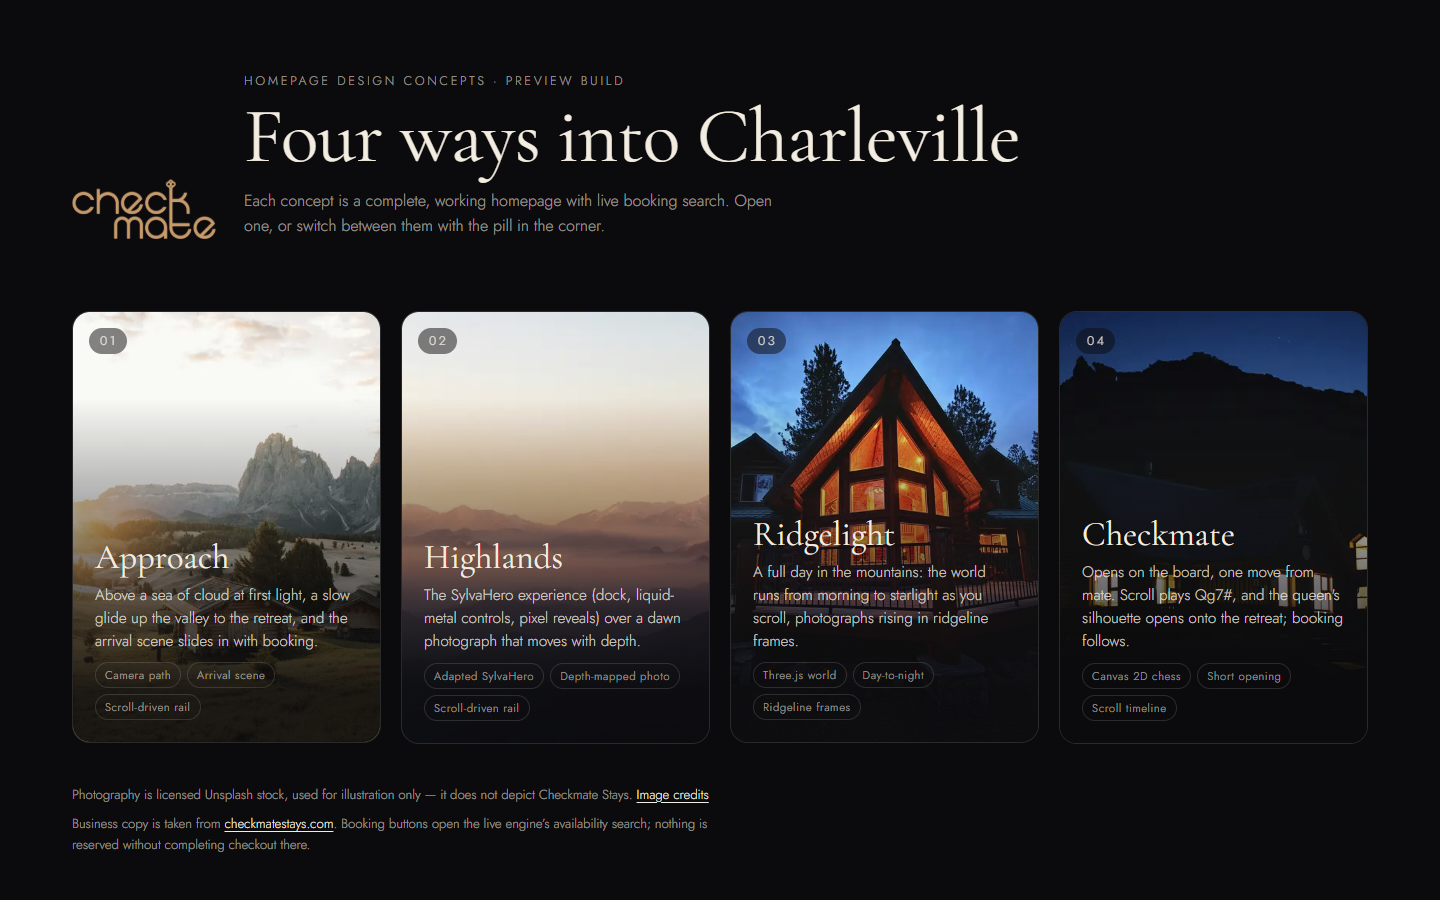
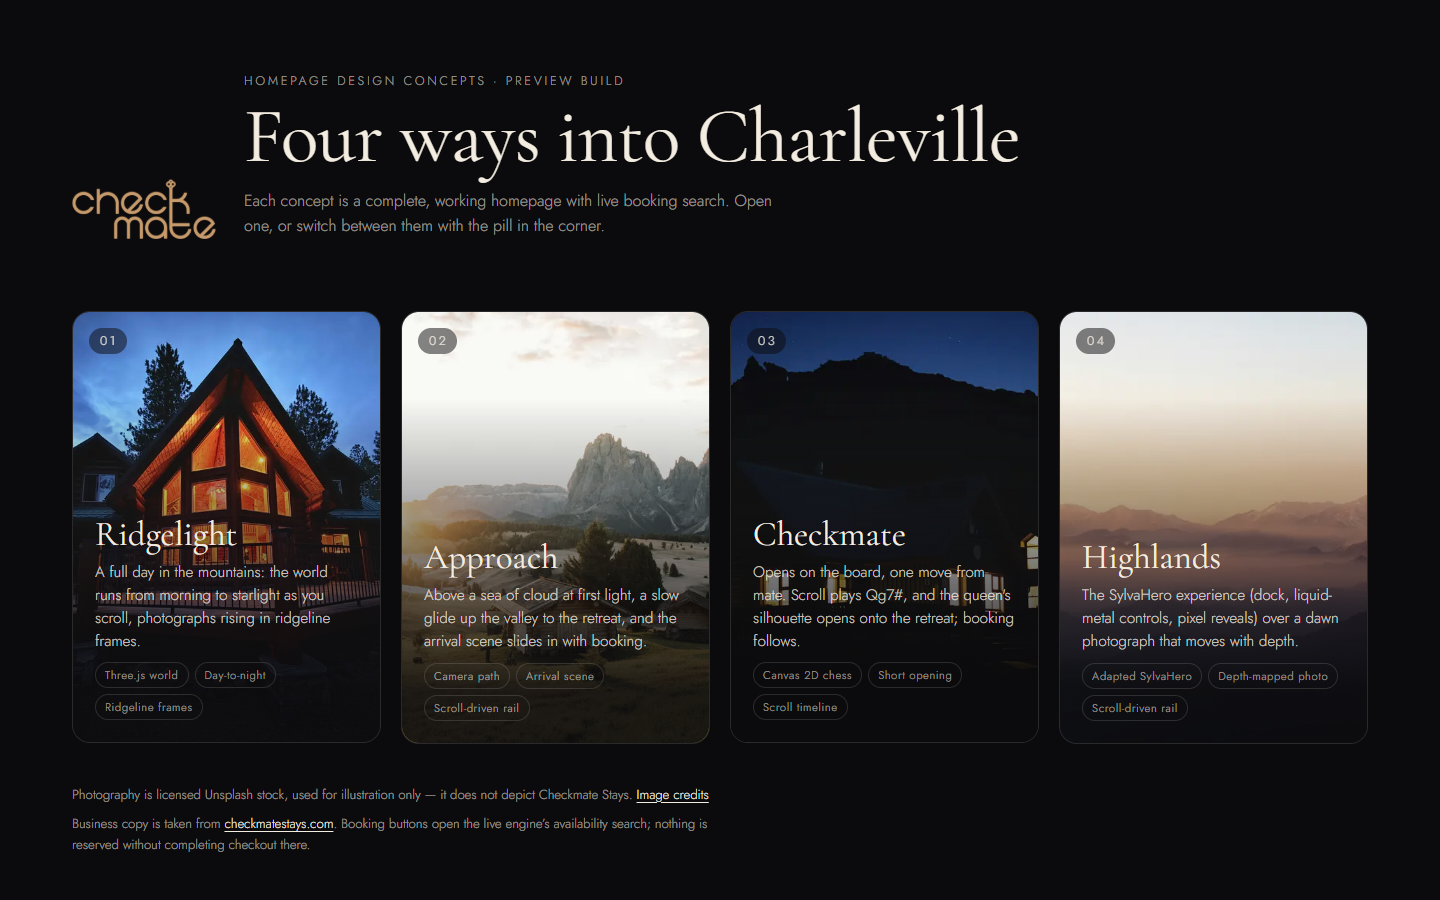
Reorder concepts: Ridgelight, Approach, Checkmate, Highlands
New positions (URLs unchanged, so shared links keep working):
1. Ridgelight
2. Mountain Approach
3. Checkmate
4. Highlands

Numbers now live only in the switcher, the hub, page titles and the
README's route table and headings; code comments and README prose
name concepts instead, so future reorders only touch those places.
The hub order check in scripts/dev/interact.mjs follows the new order.

Changed region(s): [[0.0312, 0.3422, 0.9688, 0.8089], [0.75, 0.7467, 0.9375, 0.8089], [0.5312, 0.7467, 0.6562, 0.8089]]

diff --git a/src/pages/Hub.tsx b/src/pages/Hub.tsx
@@ -6,24 +6,24 @@ import "./hub.css";
 
 const CONCEPTS = [
   {
-    to: "/concepts/approach", n: "01", title: "Approach", image: "approach-sunrise-huts",
-    line: "Above a sea of cloud at first light, a slow glide up the valley to the retreat, and the arrival scene slides in with booking.",
-    tags: ["Camera path", "Arrival scene", "Scroll-driven rail"],
-  },
-  {
-    to: "/concepts/highlands", n: "02", title: "Highlands", image: "highlands-dawn",
-    line: "The SylvaHero experience (dock, liquid-metal controls, pixel reveals) over a dawn photograph that moves with depth.",
-    tags: ["Adapted SylvaHero", "Depth-mapped photo", "Scroll-driven rail"],
-  },
-  {
-    to: "/concepts/ridgelight", n: "03", title: "Ridgelight", image: "aframe-lodge",
+    to: "/concepts/ridgelight", n: "01", title: "Ridgelight", image: "aframe-lodge",
     line: "A full day in the mountains: the world runs from morning to starlight as you scroll, photographs rising in ridgeline frames.",
     tags: ["Three.js world", "Day-to-night", "Ridgeline frames"],
   },
   {
-    to: "/concepts/checkmate", n: "04", title: "Checkmate", image: "noir-retreat",
+    to: "/concepts/approach", n: "02", title: "Approach", image: "approach-sunrise-huts",
+    line: "Above a sea of cloud at first light, a slow glide up the valley to the retreat, and the arrival scene slides in with booking.",
+    tags: ["Camera path", "Arrival scene", "Scroll-driven rail"],
+  },
+  {
+    to: "/concepts/checkmate", n: "03", title: "Checkmate", image: "noir-retreat",
     line: "Opens on the board, one move from mate. Scroll plays Qg7#, and the queen's silhouette opens onto the retreat; booking follows.",
     tags: ["Canvas 2D chess", "Short opening", "Scroll timeline"],
+  },
+  {
+    to: "/concepts/highlands", n: "04", title: "Highlands", image: "highlands-dawn",
+    line: "The SylvaHero experience (dock, liquid-metal controls, pixel reveals) over a dawn photograph that moves with depth.",
+    tags: ["Adapted SylvaHero", "Depth-mapped photo", "Scroll-driven rail"],
   },
 ];
 

diff --git a/src/concepts/approach/approach.css b/src/concepts/approach/approach.css
@@ -1,4 +1,4 @@
-/* Concept One (Approach). Newsreader (an optical-size serif built for reading) for display, Inter for
+/* Approach. Newsreader (an optical-size serif built for reading) for display, Inter for
    text: calmer and more legible than the earlier high-contrast Didone. Slate ink on ice,
    with a muted terracotta for emphasis. */
 .ap {
@@ -15,7 +15,7 @@
 .ap-kicker { font-size: 0.76rem; letter-spacing: 0.14em; text-transform: uppercase; color: var(--clay); font-weight: 600; margin-bottom: 14px; }
 .ap main > section { padding: clamp(80px, 11vw, 200px) var(--gutter); max-width: 2560px; margin: 0 auto; }
 
-/* header: Concept Two's dock, in Approach's ice and slate */
+/* header: the Highlands hero dock, in Approach's ice and slate */
 .ap-header { position: fixed; inset: 0 0 auto; z-index: 600; height: 76px; padding: 0 var(--gutter); display: grid; grid-template-columns: 1fr auto 1fr; align-items: center; gap: 16px; transition: background-color .4s, border-color .4s; border-bottom: 1px solid transparent; color: var(--ink); }
 .ap-header.is-scrolled { background: rgba(238, 242, 245, 0.88); border-color: var(--line); -webkit-backdrop-filter: blur(12px); backdrop-filter: blur(12px); }
 .ap-logo { color: inherit; display: inline-flex; width: max-content; }

diff --git a/src/shared/ui.tsx b/src/shared/ui.tsx
@@ -45,10 +45,10 @@ export function IllustrativeNote({ className = "" }: { className?: string }) {
 }
 
 const CONCEPTS = [
-  { to: "/concepts/approach", n: "1", label: "Approach" },
-  { to: "/concepts/highlands", n: "2", label: "Highlands" },
-  { to: "/concepts/ridgelight", n: "3", label: "Ridgelight" },
-  { to: "/concepts/checkmate", n: "4", label: "Checkmate" },
+  { to: "/concepts/ridgelight", n: "1", label: "Ridgelight" },
+  { to: "/concepts/approach", n: "2", label: "Approach" },
+  { to: "/concepts/checkmate", n: "3", label: "Checkmate" },
+  { to: "/concepts/highlands", n: "4", label: "Highlands" },
 ];
 
 /** Reviewer-only switcher for comparing concepts; not part of any design. */

diff --git a/src/pages/Credits.tsx b/src/pages/Credits.tsx
@@ -11,7 +11,7 @@ export function Credits() {
       <p style={{ maxWidth: "70ch" }}>
         All photography in these concepts is licensed stock from Unsplash under the{" "}
         <a href="https://unsplash.com/license">Unsplash License</a>, used as illustrative concept imagery. None of it depicts
-        Checkmate Stays or its suites. Concept 2's hero layout is adapted from ThreeUI SylvaHero (MIT).
+        Checkmate Stays or its suites. The Highlands hero layout is adapted from ThreeUI SylvaHero (MIT).
       </p>
       <div style={{ overflowX: "auto", marginTop: 24 }}>
         <table style={{ borderCollapse: "collapse", width: "100%", fontSize: 14 }}>

diff --git a/src/concepts/approach/approachScene.ts b/src/concepts/approach/approachScene.ts
@@ -1,7 +1,7 @@
 import * as THREE from "three";
 import { buildHouse, buildOak, buildPines, disposeScene, glowTexture, makeNoise } from "../../shared/three/retreatKit";
 
-/* Concept One — the approach. A wide alpine valley at first light: a sea of cloud below,
+/* Approach — the camera path. A wide alpine valley at first light: a sea of cloud below,
    a snow range behind, and a retreat on a ridge in the distance. Scroll progress p ∈ [0, 1]
    glides the camera down a grounded path toward the house, easing in and out, with a slight
    arc in the last stretch so the balcony side turns towards the viewer. It stops at a calm

diff --git a/src/concepts/checkmate/CheckmateConcept.tsx b/src/concepts/checkmate/CheckmateConcept.tsx
@@ -21,7 +21,7 @@ const SQUARES: ({ img: StockKey; alt: string } | { exp: string })[] = [
 
 export default function CheckmateConcept() {
   useFonts("family=Cormorant+Garamond:ital,wght@0,300;0,400;0,500;1,300;1,400&family=Jost:wght@300;400;500&family=Inter:wght@400;500&family=JetBrains+Mono:wght@400");
-  useDocumentTitle("Checkmate Stays — Concept 4 · Checkmate");
+  useDocumentTitle("Checkmate Stays — Concept 3 · Checkmate");
   useKingCursor({ fill: "#f3ece0", stroke: "#0b0a0c", accent: "#c9a35c" });
   const reduced = useReducedMotion();
   const compact = useIsCompact();

diff --git a/src/concepts/ridgelight/ridgeWorld.ts b/src/concepts/ridgelight/ridgeWorld.ts
@@ -1,7 +1,7 @@
 import * as THREE from "three";
 import { buildHouse, buildOak, buildPines, disposeScene, glowTexture, ridgeTexture, seeded, smoothDamp, type House } from "../../shared/three/retreatKit";
 
-/* Concept Three — Ridgelight. A fixed 3D world behind the whole page: layered Himalayan
+/* Ridgelight. A fixed 3D world behind the whole page: layered Himalayan
    ridges, a house on a ridge, the old oak beside it, pines and a sky that runs through a
    full day. Each chapter sets a camera waypoint; page progress sets the hour.
 

diff --git a/src/concepts/approach/ApproachConcept.tsx b/src/concepts/approach/ApproachConcept.tsx
@@ -27,7 +27,7 @@ function supportsWebGL() {
 
 export default function ApproachConcept() {
   useFonts("family=Newsreader:ital,opsz,wght@0,6..72,300..600;1,6..72,300..500&family=Inter:wght@400;500;600");
-  useDocumentTitle("Checkmate Stays — Concept 1 · Mountain Approach");
+  useDocumentTitle("Checkmate Stays — Concept 2 · Mountain Approach");
   useKingCursor({ fill: "#1d2630", stroke: "#f4f7fa", accent: "#c9774f" });
   const reduced = useReducedMotion();
   const compact = useIsCompact();

diff --git a/src/concepts/ridgelight/RidgelightConcept.tsx b/src/concepts/ridgelight/RidgelightConcept.tsx
@@ -111,7 +111,7 @@ function supportsWebGL() {
 
 export default function RidgelightConcept() {
   useFonts("family=Onest:wght@300;400;500&family=Tiro+Devanagari+Hindi&display=swap&family=Instrument+Serif:ital@1");
-  useDocumentTitle("Checkmate Stays — Concept 3 · Ridgelight");
+  useDocumentTitle("Checkmate Stays — Concept 1 · Ridgelight");
   useKingCursor({ fill: "#e9efec", stroke: "#071012", accent: "#ff9a4a" });
   const reduced = useReducedMotion();
   const compact = useIsCompact();

diff --git a/src/shared/kingCursor.ts b/src/shared/kingCursor.ts
@@ -60,7 +60,7 @@ export function cursorStage(progress: number) {
   return Math.round(Math.min(1, Math.max(0, progress)) * 4 * STEPS) / STEPS;
 }
 
-/** CSS for documents whose stylesheet the app doesn't own (the Concept 2 hero frame). */
+/** CSS for documents whose stylesheet the app doesn't own (the Highlands hero frame). */
 export function kingCursorCss(theme: KingCursorTheme, q = 0) {
   const c = cursorsFor(q, theme);
   return `@media (hover:hover) and (pointer:fine){

diff --git a/src/shared/dock-tabs.css b/src/shared/dock-tabs.css
@@ -1,4 +1,4 @@
-/* Dock tabs: Concept Two's hero dock, as a reusable control. Themed through --dt-*. */
+/* Dock tabs: the Highlands hero dock, as a reusable control. Themed through --dt-*. */
 .dt {
   --dt-bar: rgba(32, 39, 48, 0.74); --dt-line: rgba(255, 255, 255, 0.11); --dt-ink: #fff; --dt-faint: rgba(255, 255, 255, 0.62);
   --dt-pill: rgba(255, 255, 255, 0.04); --dt-near: rgba(29, 36, 45, 0.94); --dt-paper: #f4f0ea; --dt-paper-ink: #1d232b; --dt-focus: #f1c48a;

diff --git a/src/shared/DockTabs.tsx b/src/shared/DockTabs.tsx
@@ -1,7 +1,7 @@
 import { useRef } from "react";
 import "./dock-tabs.css";
 
-/* Tabs in the idiom of Concept Two's hero dock: a lit glass capsule of uppercase pills that
+/* Tabs in the idiom of the Highlands hero dock: a lit glass capsule of uppercase pills that
    magnify as the pointer nears them, a specular rim that points back at the pointer, and the
    current item wearing the cards' paper. Each page themes it through --dt-* properties. */
 
